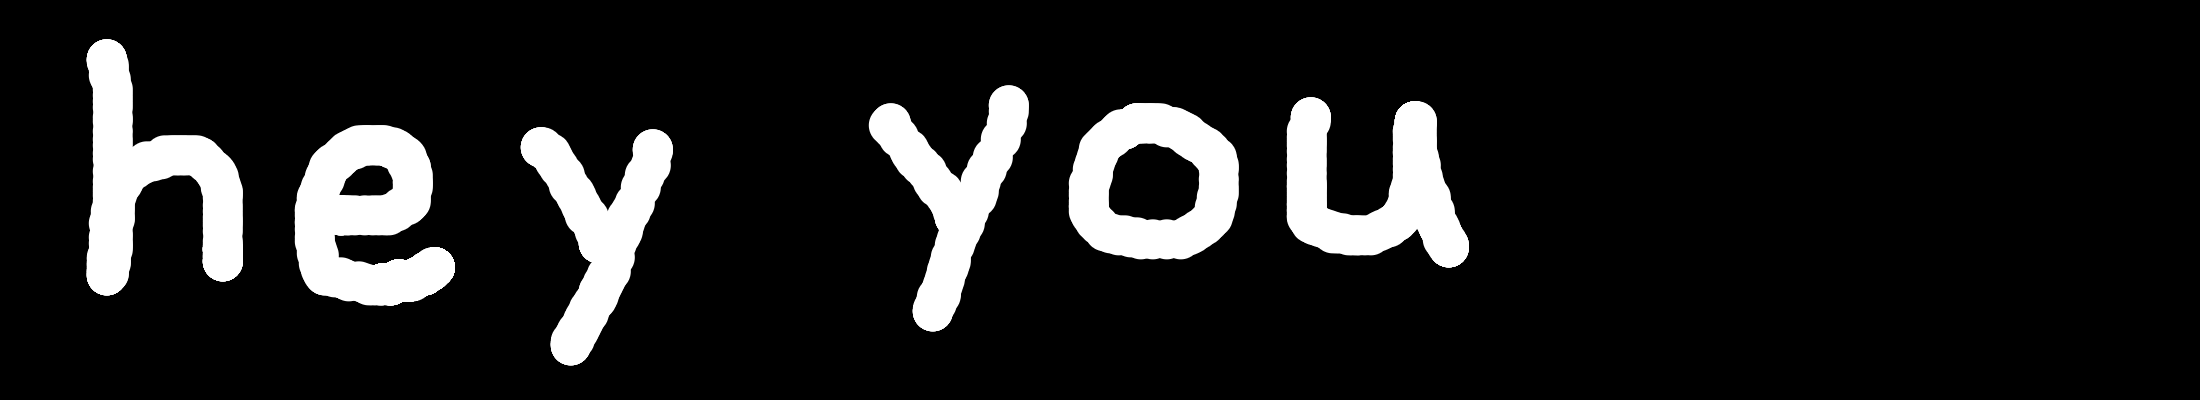
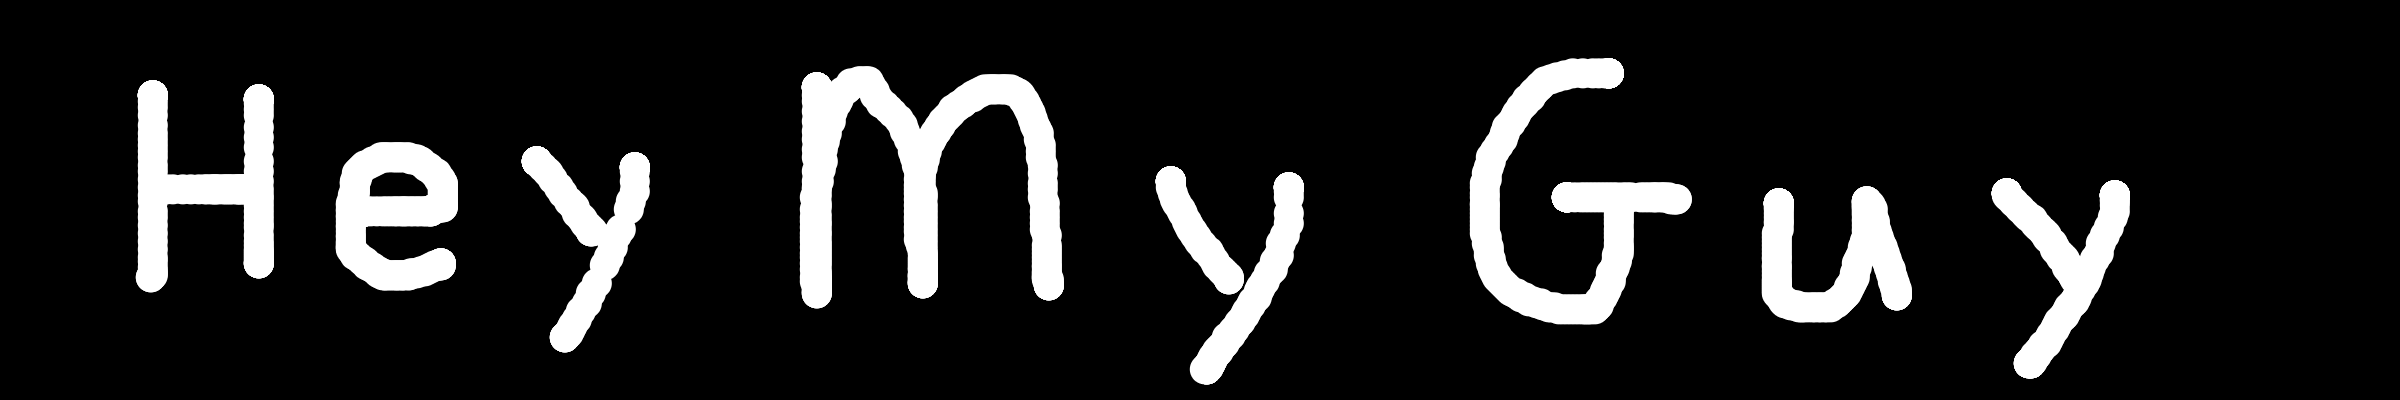
application can now predict  uniformed-cased letters in lower or upper case depending on size

Changed region(s): [[0.0309, 0.09, 0.8964, 0.96]]

diff --git a/src/components/Canvas/Canvas.js b/src/components/Canvas/Canvas.js
@@ -154,7 +154,8 @@ class Canvas extends Component {
 				if (drawings[i].length !== 0) {
 					p.beginShape();
 					for (let j = 0; j < path.length; j++) {
-						p.strokeWeight(20);
+						// p.strokeWeight(20);
+						p.strokeWeight(15)
 						p.stroke(255);
 						p.noFill()
 

diff --git a/handwriting/views.py b/handwriting/views.py
@@ -42,10 +42,13 @@ def data_return(request):
         array_of_chars, space_location = cut_pictures(mod_array)
 
         char_img_converted_to_in_sample = []
+        char_img_heights = []
         for char_img in array_of_chars:
 
             # trim off all excess pixels and center the char_img up
             char_img = center_image(char_img)
+
+            char_img_heights.append(len(char_img))
 
             # we will now begin padding
             char_img = pad_image(char_img)
@@ -61,12 +64,24 @@ def data_return(request):
 
             char_img = char_img.reshape(-1, IMG_SIZE, IMG_SIZE, 1)
             char_img_converted_to_in_sample.append(char_img)
-        return char_img_converted_to_in_sample, space_location
+        return char_img_converted_to_in_sample, space_location, char_img_heights
 
     # The "answer key"
     class_mapping = '0123456789ABCDEFGHIJKLMNOPQRSTUVWXYZabdefghnqrt'
 
-    final_images, space_location = prepare(filepath)
+
+    # Identifying the what case uniformed-cased letters should be
+    # Example: when a c should be a C
+    # We will say that half the canvas dictates the casing
+    LOWER_CASE = 200
+
+    # The below letters are special letters
+    # not only are their lowercase counterparts the same, they can also be the same height
+    # these characters need special params to identify upper and lowercase
+    tall_uniform_lc_letters = 'pyi'
+    TALL_UNIFORM_LC = 280
+
+    final_images, space_location, char_img_heights = prepare(filepath)
 
     final_prediction = []
     for idx, img in enumerate(final_images):
@@ -74,6 +89,15 @@ def data_return(request):
 
         idx_prediction = np.argmax(prediction[0])
         char_prediction = class_mapping[idx_prediction]
+
+        # Convert letter to lowercase if it is relatively small
+        if char_prediction.isnumeric() == False and char_prediction.lower() not in class_mapping:
+            if char_prediction.lower() in tall_uniform_lc_letters:
+                if char_img_heights[idx] < TALL_UNIFORM_LC:
+                    char_prediction = char_prediction.lower()
+            elif char_img_heights[idx] < LOWER_CASE:
+                char_prediction = char_prediction.lower()
+
         final_prediction.append(char_prediction)
         # print('we predict the answer is:', char_prediction)
         if idx in space_location:
